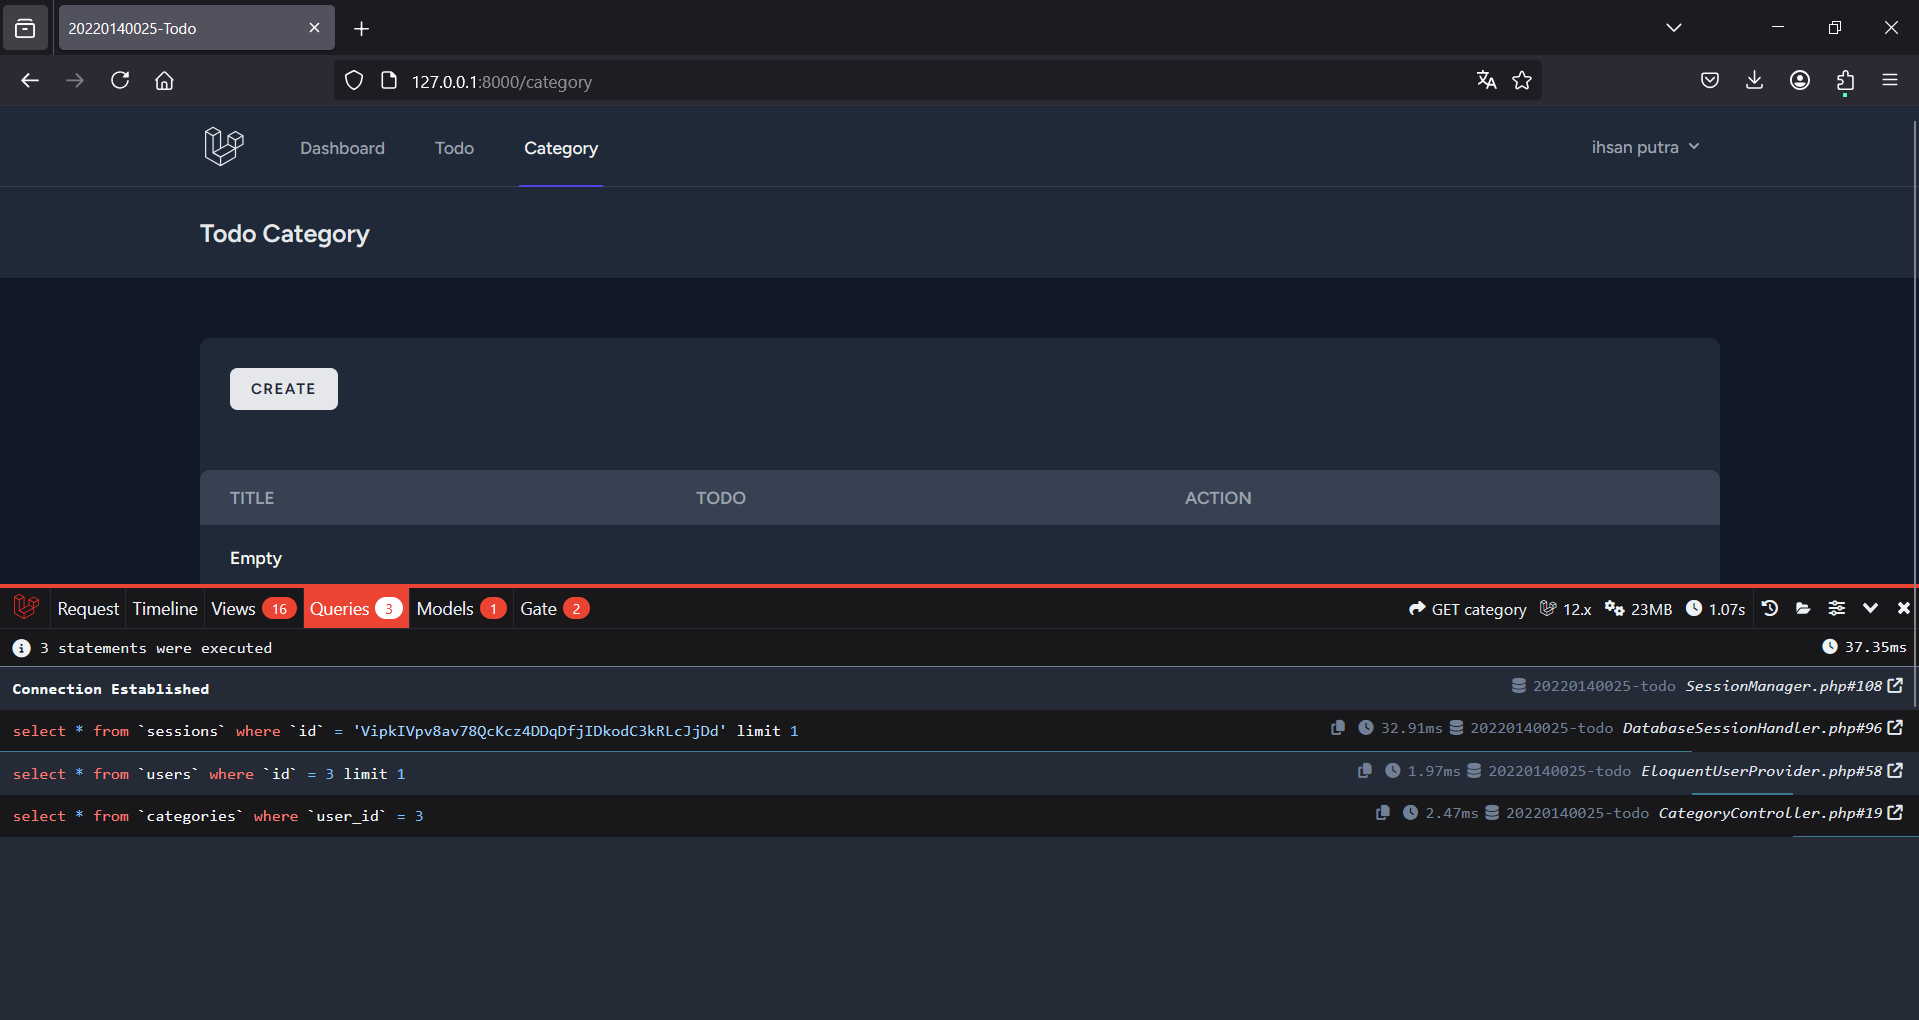
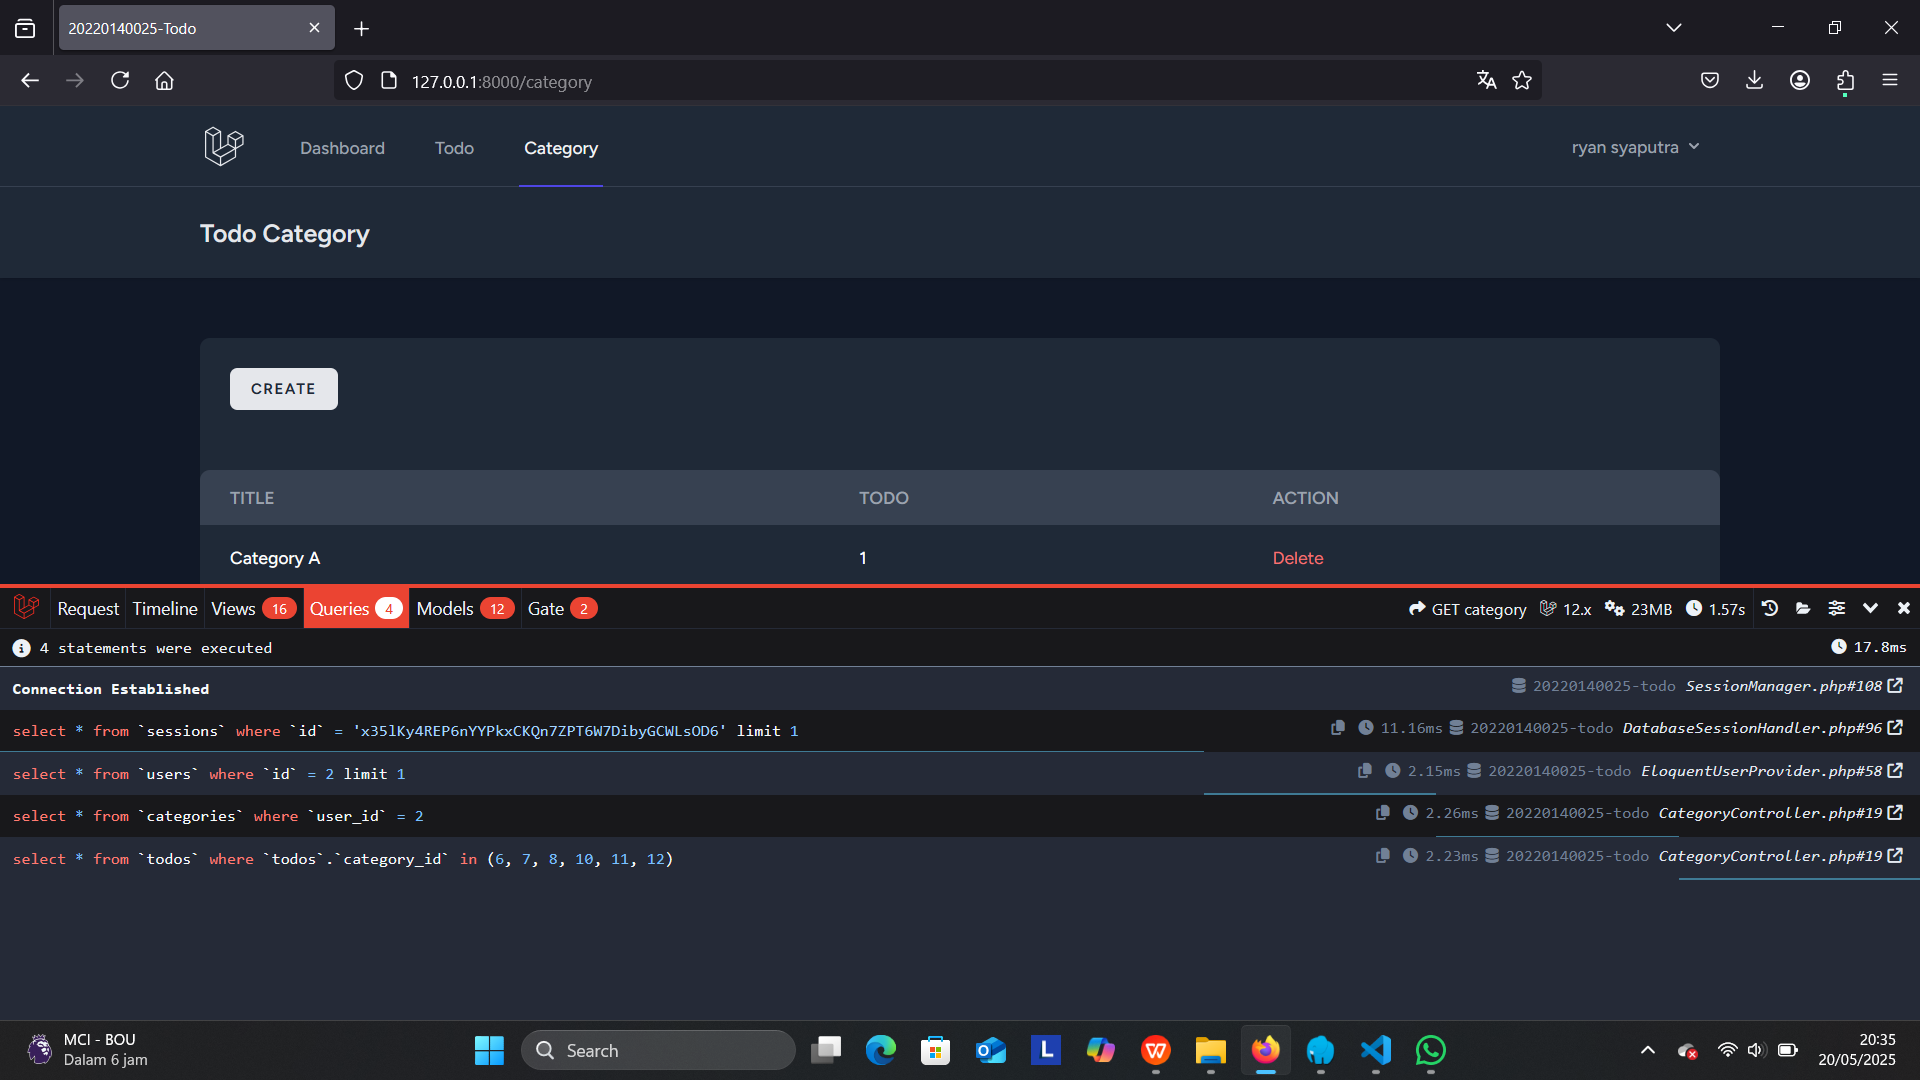
n+1 problem fix

diff --git a/Tugas9.md b/Tugas9.md
@@ -1,9 +1,9 @@
 # Tugas 9
 
 ## 1. Browser Todo
-![alt text](<screenshot/Tugas9/Tugas9 Todo.png>)
+![alt text](<screenshot/Tugas9/Tugas9 todo.png>)
 
 ## 2. Browser Category
-![alt text](<sscreenshot/Tugas9/Tugas9 Category.png>)
+![alt text](<screenshot/Tugas9/Tugas9 category.png>)
 
 
